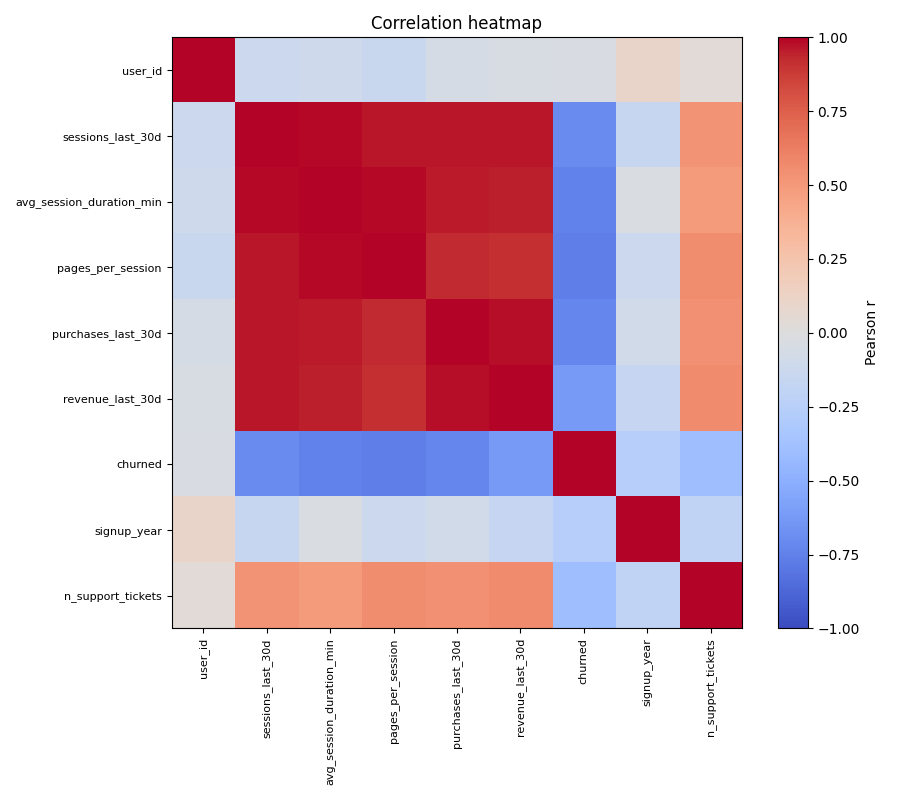
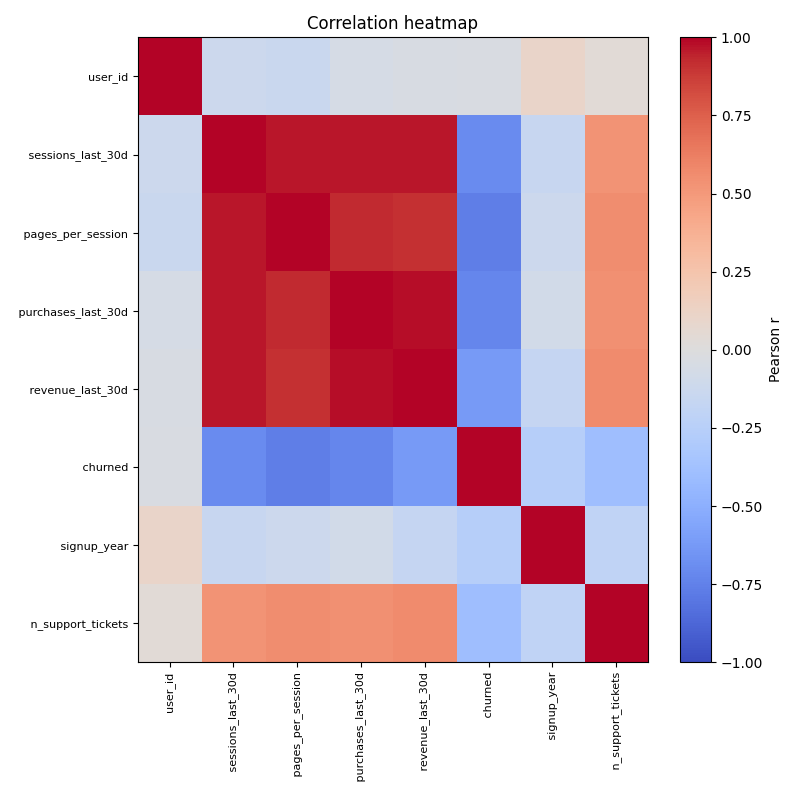
do report with eda-cli

Changed region(s): [[0.0312, 0.0312, 1.0, 0.9688], [0.4062, 0.0, 0.5938, 0.0625]]

diff --git a/homeworks/HW03/eda-cli/reports_example/report.md b/homeworks/HW03/eda-cli/reports_example/report.md
@@ -6,8 +6,8 @@
 
 ## Качество данных (эвристики)
 
-- Оценка качества: **0.74**
-- Макс. доля пропусков по колонке: **5.56%**
+- Оценка качества: **0.80**
+- Макс. доля пропусков по колонке: **0.00%**
 - Слишком мало строк: **True**
 - Слишком много колонок: **False**
 - Слишком много пропусков: **False**
